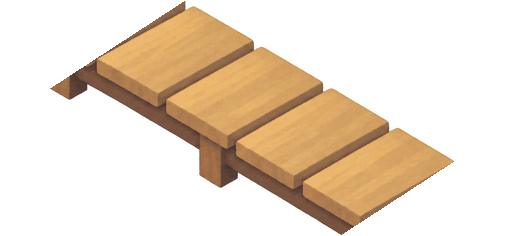
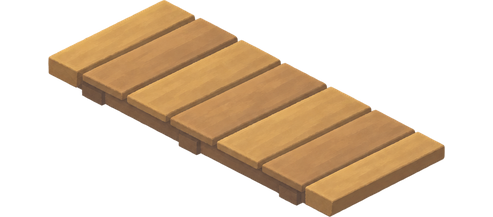
Brücke aus einer Formvorlage neu generieren
Statt das zu lange Bild zu beschneiden, bekommt das Bildmodell die Form der
Brücke im Raster als Vorlage. Die neue Brücke ist flach, hat ganze Planken an
beiden Enden und liegt auf den Ufern auf.

Changed region(s): [[0.0913, 0.0, 0.9128, 1.0]]

diff --git a/tools/crop_sprites.py b/tools/crop_sprites.py
@@ -31,46 +31,36 @@ THRESHOLD = 24
 MARGIN = 0.12
 
 
-# The generated bridge is six planks long, which is more than the one cell the brook is wide.
-# Its first and last plank are cut off along the gaps between the planks. Given in pixels of the
-# cropped image at half resolution: centre of the deck, half the deck along its length, and the
-# direction of the gaps. KEEP is the stretch that stays, in half lengths from the centre: from
-# the first gap to the last one, which leaves the four planks in the middle.
-BRIDGE_CENTRE = (254, 145)
-BRIDGE_ALONG = (165, 100)
-BRIDGE_GAP = (86, -56)
-BRIDGE_KEEP = (-0.845, 0.775)
-
-
-def shorten_bridge(image):
-    (cx, cy), (ux, uy), (gx, gy) = BRIDGE_CENTRE, BRIDGE_ALONG, BRIDGE_GAP
-    det = ux * gy - uy * gx
-    pixels = image.load()
-    for y in range(image.height):
-        for x in range(image.width):
-            # Position along the deck, measured parallel to the gaps.
-            along = ((x - cx) * gy - (y - cy) * gx) / det
-            if not BRIDGE_KEEP[0] <= along <= BRIDGE_KEEP[1]:
-                pixels[x, y] = (0, 0, 0, 0)
-    box = image.getchannel("A").getbbox()
-    middle = sum(BRIDGE_KEEP) / 2
-    print("bridge: deck centre in the cut image", cx + middle * ux - box[0], cy + middle * uy - box[1])
-    return image.crop(box)
-
+# The bridge comes from a shape template (bridge_image.py), but the model painted it larger than
+# the template. Measured in the raw image: the centre of the deck's top face, and how many raw
+# pixels one world pixel is, taken from the length of the deck (560 pixels for 1.4 cells).
+RAW_NAMES = {"bridge": "bridge_flat"}
+BRIDGE_CENTRE = (515, 525)
+BRIDGE_SCALE = 6.25
 
 def crop(name):
-    image = Image.open(SOURCES[name] / f"{name}.png").convert("RGBA")
+    image = Image.open(SOURCES[name] / f"{RAW_NAMES.get(name, name)}.png").convert("RGBA")
     alpha = image.getchannel("A")
     # The model does not deliver full opacity even inside the object. Stretch to the full range.
     peak = alpha.getextrema()[1]
     alpha = alpha.point(lambda a: 0 if a < THRESHOLD else min(255, round(a * 255 / peak)))
     image.putalpha(alpha)
-    image = image.crop(alpha.getbbox())
+    box = alpha.getbbox()
+    image = image.crop(box)
+    if name == "bridge":
+        # Values for ObjectView.IMAGES.
+        print(
+            "bridge: width %.1f, foot (%.3f, %.3f)"
+            % (
+                (box[2] - box[0]) / BRIDGE_SCALE,
+                (BRIDGE_CENTRE[0] - box[0]) / (box[2] - box[0]),
+                (BRIDGE_CENTRE[1] - box[1]) / (box[3] - box[1]),
+            )
+        )
     # In the game objects are at most about 300 world pixels wide. Half the resolution is enough
     # for that and avoids shimmering when scaling down a lot.
     image = image.resize((image.width // 2, image.height // 2), Image.LANCZOS)
-    if name == "bridge":
-        image = shorten_bridge(image)
+
     # Transparent margin on the left and right so the object can lean in the wind.
     margin = round(image.width * MARGIN)
     padded = Image.new("RGBA", (image.width + 2 * margin, image.height), (0, 0, 0, 0))

diff --git a/tools/bridge_image.py b/tools/bridge_image.py
@@ -1,0 +1,80 @@
+"""Generates the bridge from a shape template, so it has exactly the size of its place in the world.
+
+    python tools/bridge_image.py plan       draw the template (free)
+    python tools/bridge_image.py generate   generate the bridge (1 call)
+
+The image is generated at most once: an existing file is never overwritten and a failed call
+is not repeated.
+"""
+
+import json
+import sys
+
+from PIL import Image, ImageDraw
+
+from env import PROJECT
+from image_gen import openai_image
+from style import PAINTED_STYLE, VIEW
+
+RAW = PROJECT / "styletest" / "village"
+SIZE = 1024
+# Template pixels per world pixel. crop_sprites.py needs it to tell the game how wide the
+# bridge is.
+SCALE = 5.0
+# The deck in cells: a little longer than the one cell the brook is wide, so both ends rest on
+# the banks, and narrow enough to leave water visible on both sides.
+LENGTH = 1.4
+WIDTH = 0.62
+ALONG = (64, 32)
+ACROSS = (-64, 32)
+
+PROMPT = (
+    "Repaint the first attached image, a flat brown shape on white, as a finished game sprite: a "
+    "low wooden plank footbridge without railings. "
+    "Keep the outline exactly: the bridge has the same position, size and angles as the brown "
+    "shape. Do not make it longer, shorter, wider or steeper. "
+    "The deck is made of about six wide planks lying side by side, each plank running across the "
+    "bridge, parallel to its two short ends. The deck is only as thick as a plank and lies almost "
+    "directly on the ground; along the long edge facing the viewer a low supporting beam is "
+    "visible beneath the planks. Both short ends finish with a whole plank. No posts, no railings. "
+    "Everything white becomes fully transparent background. No ground, no water, no cast shadow, "
+    "no other objects, no text. "
+    "The second attached image is the painted ground of the game world. Use it only as a "
+    "reference for painting style, brushwork and colour palette."
+)
+
+
+def corners():
+    half_l, half_w = LENGTH / 2, WIDTH / 2
+    points = []
+    for l, w in [(-1, -1), (1, -1), (1, 1), (-1, 1)]:
+        x = l * half_l * ALONG[0] + w * half_w * ACROSS[0]
+        y = l * half_l * ALONG[1] + w * half_w * ACROSS[1]
+        points.append((SIZE / 2 + x * SCALE, SIZE / 2 + y * SCALE))
+    return points
+
+
+def plan():
+    image = Image.new("RGB", (SIZE, SIZE), "white")
+    ImageDraw.Draw(image).polygon(corners(), fill="#a97c52")
+    image.save(RAW / "bridge_plan.png")
+    print("Plan:", RAW / "bridge_plan.png")
+
+
+def generate():
+    target = RAW / "bridge_flat.png"
+    if target.exists():
+        print("Bridge already exists, no call.")
+        return
+    usage = openai_image(
+        "\n\n".join([PROMPT, VIEW, PAINTED_STYLE]),
+        target,
+        size="%dx%d" % (SIZE, SIZE),
+        transparent=True,
+        references=[RAW / "bridge_plan.png", RAW / "ground_small.png"],
+    )
+    print("Bridge:", target, json.dumps(usage))
+
+
+if __name__ == "__main__":
+    {"plan": plan, "generate": generate}[sys.argv[1]]()

diff --git a/CLAUDE.md b/CLAUDE.md
@@ -25,7 +25,7 @@ Was noch zu bauen ist, steht in `docs/backlog.md`. Erledigtes dort löschen, Neu
 - `data/notes.json`: alle Einträge des Notizbuchs mit Art, Welt und Verknüpfungen (immer in beide Richtungen).
 - `data/texts/`: alle sichtbaren Texte je Sprache (`en.json`, `de.json`), mit denselben Schlüsseln in jeder Datei. Regeln nennen nur Schlüssel.
 - `assets/`: Bilder und Musik, die das Spiel lädt (`objects/`, `worlds/`, `music/`).
-- `tools/`: Python-Skripte für Bild- und Musikgenerierung, eigene Umgebung in `tools/.venv`. Die Stilvorgabe für alle Bild-Prompts steht in `tools/style.py`. `village_images.py`, `room_images.py` und `walk_images.py` erzeugen die Rohbilder (jede Datei höchstens einmal), `crop_sprites.py` schneidet sie zu und legt sie nach `assets/`. Wie ein Bild in der Welt sitzt (Breite, Fußpunkt), steht in `ObjectView.IMAGES`.
+- `tools/`: Python-Skripte für Bild- und Musikgenerierung, eigene Umgebung in `tools/.venv`. Die Stilvorgabe für alle Bild-Prompts steht in `tools/style.py`. `village_images.py`, `bridge_image.py`, `room_images.py` und `walk_images.py` erzeugen die Rohbilder (jede Datei höchstens einmal), `crop_sprites.py` schneidet sie zu und legt sie nach `assets/`. Wie ein Bild in der Welt sitzt (Breite, Fußpunkt), steht in `ObjectView.IMAGES`.
 - `styletest/`: generierte Rohbilder und Testmusik, von Godot ignoriert.
 
 ## Befehle
